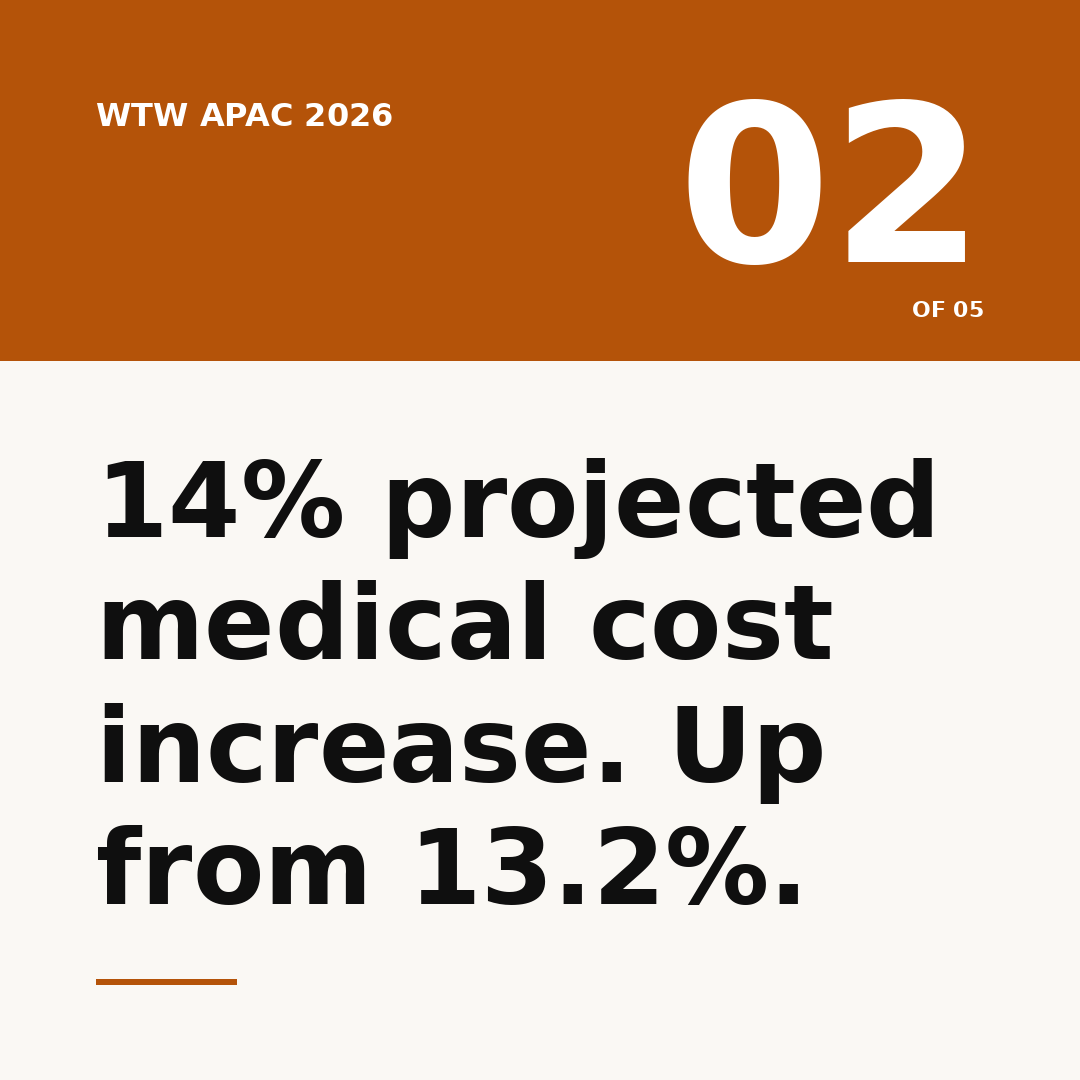
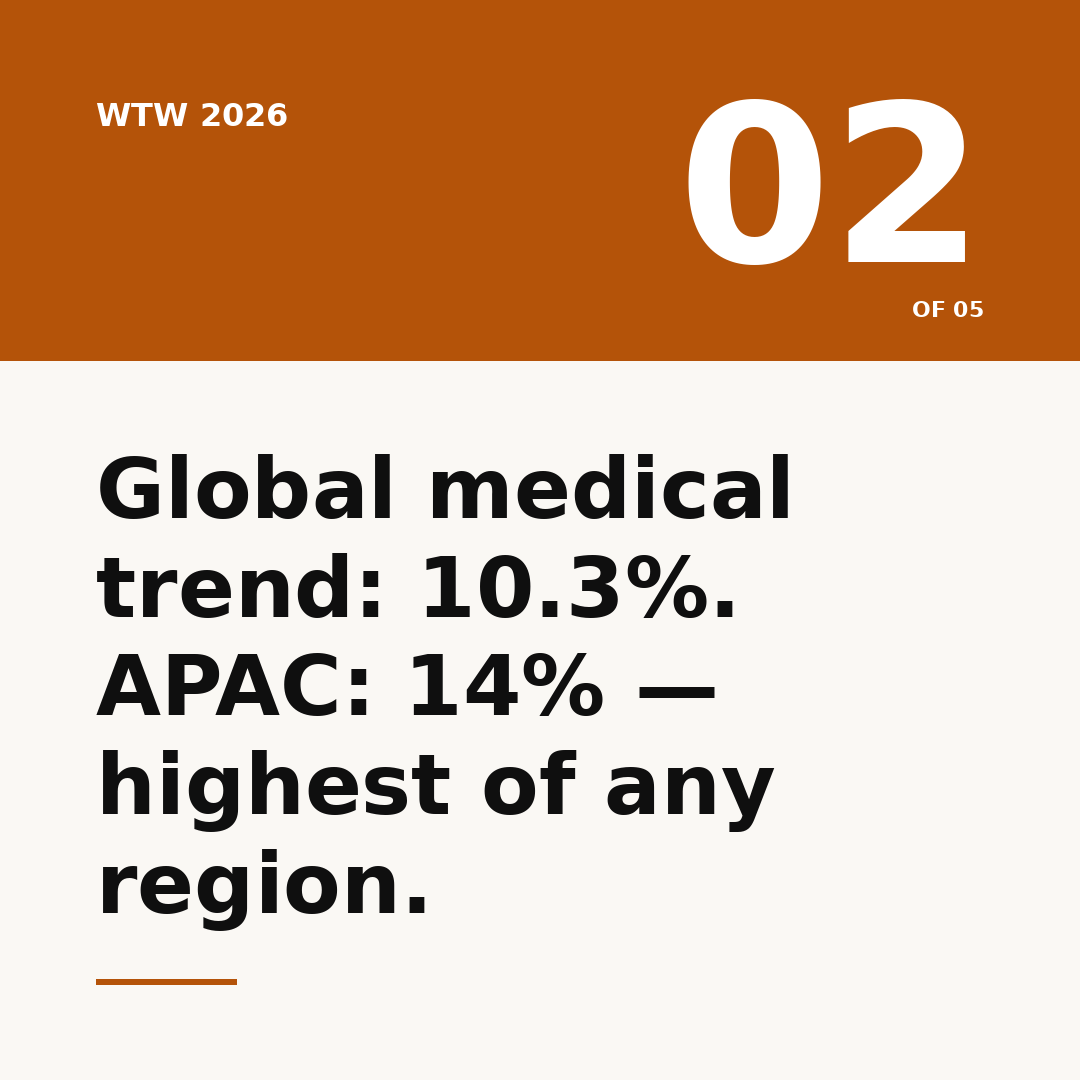
Recalibrate APAC lens to relevance filter, not framing mandate
Skill, sources catalog, and writer agent updated so APAC functions as
a topic-relevance filter rather than a framing requirement. Universal
best-practices voice is now the default; APAC data is woven into the
body as evidence when it materially differs from the global picture.
US-only or Europe-only themes that don't reach APAC employers get
filtered at the scout stage. Hashtags default to universal. Today's
three drafts rewritten in the new voice (retention expectation gap,
medical inflation, AI adoption vs work-design) and all carousels
regenerated to match.

Changed region(s): [[0.0917, 0.3972, 0.8861, 0.8861], [0.1833, 0.0917, 0.3667, 0.1222]]

diff --git a/posts/drafts/best-practices-2026-05-19.md b/posts/drafts/best-practices-2026-05-19.md
@@ -8,78 +8,78 @@ Previous runs preserved in git: morning provocative batch (`c2400ef`), midday re
 
 ---
 
-## Option 1 — apac-pay-expectation-gap
-- **Theme:** Job-mobility expectations and pay-gap pressure (APAC retention squeeze)
-- **Source reports:** WTW APAC Salary Budget Planning 2026; Robert Walters APAC Salary Survey 2026; Hays Asia Salary Guide 2026; HKIHRM 2026 industry surveys
-- **Source URLs:** https://www.wtwco.com/en-us/insights/2026/01/countering-disruptions-with-dynamic-total-rewards-strategies-actions-for-2026 · https://www.robertwalters.com.sg/insights/career-advice/salary-survey-2026.html
+## Option 1 — retention-is-the-expectation-gap
+- **Theme:** Job-mobility expectations and pay-gap pressure (APAC-applicable retention story)
+- **Source reports:** Robert Walters 2026 Salary Survey (APAC volumes); WTW 2026 Salary Budget Planning Survey; Hays Asia Salary Guide 2026
+- **Source URLs:** https://www.robertwalters.com.sg/insights/career-advice/salary-survey-2026.html · https://www.wtwco.com/en-us/insights/2026/01/countering-disruptions-with-dynamic-total-rewards-strategies-actions-for-2026
 - **Carousel (5 slides):** posts/drafts/carousels/2026-05-19-option-1/
-  - slide-1 · Compensation · APAC · "APAC's biggest comp story in 2026 is the expectation gap."
-  - slide-2 · WTW APAC 2026 · "Pay budgets land at 5.2%. India 9%. Singapore 4%. HK 3.5%."
-  - slide-3 · Robert Walters 2026 · "83% of APAC employees expect >10%. 27% of employers can offer it."
-  - slide-4 · The CHRO read · "Retention now turns on what you fund beyond cash."
+  - slide-1 · Compensation · "The 2026 retention squeeze isn't budget. It's the expectation gap."
+  - slide-2 · Robert Walters 2026 · "83% of employees expect pay rises above 10%. 27% of employers can offer it."
+  - slide-3 · WTW 2026 · "Salary budgets stable in single digits across most markets."
+  - slide-4 · The CHRO read · "The CHROs winning this year will fund retention beyond cash."
   - slide-5 · Your move · "What's in your non-cash retention stack?"
-- **Image alt:** Minimalist navy-accented card: "APAC's biggest comp story in 2026 is the expectation gap."
-- **Word count:** 49
+- **Image alt:** Minimalist navy-accented card: "The 2026 retention squeeze isn't budget. It's the expectation gap."
+- **Word count:** 48
 - **Status:** draft
 
 ---POST---
-APAC's biggest comp story in 2026 is the expectation gap.
+The 2026 retention squeeze isn't budget. It's the expectation gap.
 
-WTW APAC 2026: budgets at 5.2% — India 9%, Singapore 4%, HK 3.5%. Robert Walters: 83% of employees expect >10%; only 27% of employers can offer it.
+Robert Walters 2026: 83% of employees expect pay rises over 10%. Only 27% of employers can offer it. WTW 2026: budgets stay in single digits.
 
-Retention now turns on what you fund beyond cash.
+The CHROs winning this year will fund retention beyond cash.
 
-#APAC #Compensation #PeopleStrategy
+#Compensation #Retention #PeopleStrategy
 ---END---
 
 ---
 
-## Option 2 — apac-medical-trend
-- **Theme:** Medical inflation forcing benefits redesign (APAC highest-cost region globally)
-- **Source reports:** WTW APAC 2026 Global Medical Trends Survey; Mercer Marsh Benefits Asia 2026
+## Option 2 — medical-inflation-rewrites-benefits
+- **Theme:** Medical inflation forcing benefits redesign (universal trend with APAC as evidence)
+- **Source reports:** WTW 2026 Global Medical Trends Survey (global + APAC breakouts); Mercer Marsh Benefits Asia 2026
 - **Source URLs:** https://www.wtwco.com/en-in/insights/2025/10/2026-global-medical-trends-survey · https://www.mercer.com/insights/total-rewards/employee-benefits-strategy/health-on-demand-asia/
 - **Carousel (5 slides):** posts/drafts/carousels/2026-05-19-option-2/
-  - slide-1 · Benefits · APAC · "APAC's medical trend in 2026 is the highest in the world."
-  - slide-2 · WTW APAC 2026 · "14% projected medical cost increase. Up from 13.2%."
-  - slide-3 · The drivers · "Cancer drives 70% of cost. Cardiovascular 67%. Both rising."
-  - slide-4 · The CHRO read · "Benefits redesign isn't a CFO issue. It's a retention strategy."
+  - slide-1 · Benefits · "Medical inflation is rewriting benefits strategy."
+  - slide-2 · WTW 2026 · "Global medical trend: 10.3%. APAC: 14% — highest of any region."
+  - slide-3 · The drivers · "Cancer drives ~70% of cost. Cardiovascular ~67%. Both rising."
+  - slide-4 · The CHRO read · "The 2026 benefits conversation moved from 'what does it cost' to 'what does it retain.'"
   - slide-5 · Your move · "When did you last test benefits against employee needs?"
-- **Image alt:** Minimalist rust-accented card: "APAC's medical trend in 2026 is the highest in the world."
+- **Image alt:** Minimalist rust-accented card: "Medical inflation is rewriting benefits strategy."
 - **Word count:** 48
 - **Status:** draft
 
 ---POST---
-APAC's medical trend in 2026 is the highest in the world.
+Medical inflation is rewriting benefits strategy.
 
-WTW APAC 2026: 14% projected cost increase. Cancer drives 70%, cardiovascular 67%. Mercer Marsh Asia: 36% of employees say benefits don't meet their needs.
+WTW 2026: global medical trend at 10.3%, with APAC leading at 14% (highest of any region). Cancer drives ~70% of cost; cardiovascular ~67%.
 
-Benefits redesign isn't a CFO issue. It's a retention strategy.
+The 2026 benefits conversation has moved from "what does it cost" to "what does it retain."
 
-#APAC #BenefitsStrategy #PeopleStrategy
+#Benefits #Wellbeing #PeopleStrategy
 ---END---
 
 ---
 
-## Option 3 — apac-past-pilots-work-design-next
-- **Theme:** Human-AI work redesign as the central operating challenge (APAC leads adoption, lags design)
-- **Source reports:** McKinsey Asia "AI in Southeast Asia" 2026; Deloitte APAC Human Capital Trends 2026; BCG Japan AI adoption 2026; Korn Ferry Talent Trends 2026 APAC
+## Option 3 — adoption-is-racing-design-isnt
+- **Theme:** Human-AI work redesign (universal — AI adoption is global, design discipline is the differentiator)
+- **Source reports:** McKinsey "AI in Southeast Asia" 2026; Deloitte 2026 Global Human Capital Trends (APAC release); BCG AI / Workforce 2026; Korn Ferry Talent Trends 2026 APAC
 - **Source URLs:** https://www.mckinsey.com/featured-insights/asia-pacific/the-state-of-ai-in-southeast-asia · https://www.deloitte.com/global/en/issues/work/human-capital-trends-asia-pacific.html
 - **Carousel (5 slides):** posts/drafts/carousels/2026-05-19-option-3/
-  - slide-1 · Future of work · APAC · "APAC moved past AI pilots faster than the rest of the world."
-  - slide-2 · McKinsey Asia 2026 · "46% of SEA firms past piloting. 35% globally."
-  - slide-3 · Deloitte APAC 2026 · "Only 6% of APAC leaders confident in human-AI interaction design."
-  - slide-4 · The CHRO read · "The adoption race is over. The work-design race starts now."
+  - slide-1 · Future of work · "AI adoption is racing. Work design isn't."
+  - slide-2 · McKinsey 2026 · "46% of Southeast Asia firms past piloting. 35% globally."
+  - slide-3 · Deloitte 2026 · "Only 6% of leaders confident in human-AI interaction design."
+  - slide-4 · The CHRO read · "The race that decides 2027 ROI isn't deployment. It's redesign."
   - slide-5 · Your move · "Where does work design sit in your AI roadmap?"
-- **Image alt:** Minimalist moss-accented card: "APAC moved past AI pilots faster than the rest of the world."
-- **Word count:** 48
+- **Image alt:** Minimalist moss-accented card: "AI adoption is racing. Work design isn't."
+- **Word count:** 47
 - **Status:** draft
 
 ---POST---
-APAC moved past AI pilots faster than the rest of the world.
+AI adoption is racing. Work-design discipline isn't keeping up.
 
-McKinsey 2026: 46% of Southeast Asia firms past piloting vs. 35% globally. Deloitte APAC: only 6% of leaders confident in human-AI interaction design.
+McKinsey 2026: 46% of Southeast Asia firms past piloting vs. 35% globally — and only 6% of APAC leaders are confident in human-AI interaction design.
 
-The adoption race is over. The work-design race starts now.
+The race that decides 2027 ROI isn't deployment. It's redesign.
 
-#APAC #FutureOfWorkAsia #AIatWork
+#FutureOfWork #AIatWork #PeopleStrategy
 ---END---

diff --git a/.claude/skills/linkedin-post/SKILL.md b/.claude/skills/linkedin-post/SKILL.md
@@ -35,8 +35,8 @@ Invoke the `hr-best-practices-scout` agent with a prompt that includes:
 - A 2026-only window directive.
 - The full source catalog content (Tier 1 + Tier 2 + Tier 3 + Auto-discovered).
 - The user's `theme:` override and any `+sources` / `-sources` adjustments.
-- **The regional lens directive (default `apac`):**
-  - "Apply the regional lens from `.claude/skills/linkedin-post/sources.md`. With `region: apac`, prioritize APAC regional breakouts of Tier 1/2 reports (e.g. Mercer Asia Talent Trends, McKinsey Asia, BCG Southeast Asia), sweep Tier 3 sources (Hays, Robert Walters, Michael Page, INSEAD, ILO Asia-Pacific, ADB, Singapore MOM, AHRI, HKIHRM, People Matters, HR Asia), and prefer APAC stats over global averages when both exist. Run queries like `'Mercer Asia Talent Trends 2026 findings'`, `'Hays Asia Salary Guide 2026'`, `'Robert Walters APAC Salary Survey 2026'`, `'Michael Page Talent Trends 2026 Singapore'`, `'INSEAD GTCI 2026'`, `'ILO Asia-Pacific Employment 2026'`. Surface APAC regulatory/market context where it adds dimension."
+- **The regional lens directive (default `apac` = relevance filter, not framing mandate):**
+  - "With `region: apac` (default), apply APAC as a **relevance filter on themes**, not a framing mandate. **Topic filter:** only surface themes applicable to APAC employers. Drop themes that are US-only or Europe-only and don't reach APAC (e.g. US-specific NLRB rulings, US state-level labor law). Themes that touch APAC multinationals via global rules pass (e.g. EU Pay Transparency landing on European subsidiaries of APAC firms). **Sources:** still sweep Tier 3 (Hays, Robert Walters, Michael Page, INSEAD, ILO Asia-Pacific, ADB, Singapore MOM, AHRI, HKIHRM, People Matters, HR Asia) and pull APAC breakouts of Tier 1/2 when they add value. **Data:** cite APAC stats as evidence when they materially differ from the global picture; otherwise universal stats are fine. **Don't write briefs that frame every theme as 'APAC's biggest…' — the goal is general best practices that happen to be relevant to APAC.**"
   - "With `region: global`, treat Tier 3 as supplementary and prioritize globally-applicable findings."
 - **The discovery directive (when `discover` is not `off`):** "During your searches, if you encounter 2026 HR research from a credible firm NOT in the catalog that adds new convergence to a theme you're surfacing, USE it and report it back so it can be added to the catalog. In APAC mode, weight discovery toward APAC-credible firms (e.g. Korn Ferry APAC, IBM IBV APAC, Egon Zehnder APAC, regional NUS / HKUST research centers). Apply the discovery rules in `.claude/skills/linkedin-post/sources.md`."
 - Reminder of environment limits: if WebFetch returns 403, fall back to search-indexed content and mark claims `[search-only]`.
@@ -93,10 +93,10 @@ Voice rules:
 - 3-4 hashtags max.
 
 **APAC framing (when `region: apac`):**
-- Anchor at least one of the three options in an APAC-specific market reality where the brief supports it: Singapore/Hong Kong as regional hubs, ASEAN talent flows, India scaling, Japan/Korea workstyle reforms, Australia Fair Work, China labor law, or how global rules (EU Pay Transparency, US enforcement) reach APAC multinationals.
-- Cite APAC stats when both APAC and global versions of a number exist (e.g. APAC thriving rate over the global one).
-- Use APAC-leaning hashtags when relevant: `#APAC`, `#FutureOfWorkAsia`, `#ASEAN`, `#SingaporeHR`, `#AsiaCHRO` — alongside the global ones, not replacing them.
-- Avoid parochialism — posts should still read for a global LinkedIn feed; APAC context adds dimension, doesn't wall the audience off.
+- **Universal best-practices framing is the default.** Don't open posts with "APAC's biggest..." or "APAC moved past..." style leads. Write as a senior CHRO sharing a general insight that happens to land in APAC.
+- **Weave APAC data into the body as evidence**, not as the headline. Example: instead of "APAC's medical trend is the highest in the world," write "Medical inflation is rewriting benefits strategy. WTW 2026: global 10.3%, with APAC leading at 14%."
+- **Filter, don't force.** If a topic doesn't apply to APAC employers (e.g. US-only NLRB rulings, US state labor law), don't draft a post on it. If a topic applies universally, treat it universally and only invoke APAC where the data adds material dimension.
+- **Hashtags default to universal.** `#APAC`, `#FutureOfWorkAsia`, `#ASEAN`, `#SingaporeHR`, `#AsiaCHRO` are optional — use only when the post specifically targets APAC employers (e.g. regional regulatory deadlines).
 
 **≤50 words per post body, including hashtags.** Hard cap. Verify each option's
 word count by running:

diff --git a/.claude/skills/linkedin-post/sources.md b/.claude/skills/linkedin-post/sources.md
@@ -59,19 +59,20 @@ in Asia Pacific. Particularly weighted when the skill runs with
 
 ## Regional lens directive
 
-When the skill runs with **`region: apac` (default)**, prioritize:
+When the skill runs with **`region: apac` (default)**, APAC functions as a
+**relevance filter on themes**, not a framing mandate:
 
-1. **APAC regional breakouts** within Tier 1/2 reports (e.g. "Mercer Asia Talent Trends 2026", "McKinsey Asia 2026", "BCG Southeast Asia").
-2. **Tier 3 sources** above as primary research targets.
-3. **APAC-specific stats** over global averages when both exist (e.g. cite Mercer's APAC thriving number over the global one).
-4. **APAC regulatory and market context** in the writer's framing — Singapore/Hong Kong as hubs, ASEAN talent flows, India scaling, Japan/Korea workstyle reforms, Australia Fair Work, EU Pay Transparency *as it lands on APAC multinationals*.
+1. **Topic filter:** only surface themes applicable to APAC employers. Drop themes that are US-only or Europe-only and don't reach APAC (e.g. US-specific NLRB rulings, US state-level labor law). Themes that touch APAC multinationals via global rules (EU Pay Transparency, etc.) pass.
+2. **Source sweep:** sweep Tier 3 for primary APAC research; pull APAC regional breakouts of Tier 1/2 reports when they add value.
+3. **Data weaving:** cite APAC-specific stats as evidence when they materially differ from the global picture. When the global stat is enough, use it. Don't force APAC numbers where they don't add insight.
+4. **Framing:** universal best-practices voice is the default. Don't lead posts with "APAC's biggest…" or "APAC moved past…" — write general CHRO insight and use APAC data inside the body where it lands naturally.
 
 When the skill runs with **`region: global`**, treat Tier 3 as supplementary
 — use it only when APAC data adds genuine convergence to a theme.
 
 US-centric Tier 2 sources (SHRM, Conference Board) are de-emphasized but
 not excluded in `region: apac`; cite them when they speak to issues APAC
-employers also face (e.g. cross-border talent flows, multinational HR
+employers also face (cross-border talent flows, multinational HR
 governance).
 
 ---

diff --git a/.claude/agents/hr-best-practices-writer.md b/.claude/agents/hr-best-practices-writer.md
@@ -25,7 +25,7 @@ minimalist, and tight — like a CHRO making one clean point on a slide.
 - No corporate jargon. No emojis. No hype words.
 - 3-4 hashtags max, at the end. Lowercase or CamelCase, e.g. `#PeopleStrategy #FutureOfWork #SkillsFirst`.
 - No AI-tells: avoid "in today's fast-paced world," "delve," "tapestry," "navigating the landscape," "moreover," "furthermore," "in conclusion."
-- **Regional framing:** if the calling brief includes an Asia Pacific anchor (look for APAC-tagged stats, APAC regional reports, or an explicit `region: apac` directive in the orchestrator's prompt), anchor at least one option in APAC market reality (Singapore/HK hubs, ASEAN talent flows, India scaling, Japan/Korea reforms, Australia Fair Work, China labor law, or how global rules land on APAC multinationals). Prefer APAC-specific stats over global averages when both exist. Add APAC-leaning hashtags (`#APAC`, `#FutureOfWorkAsia`, `#ASEAN`, `#SingaporeHR`, `#AsiaCHRO`) alongside the global ones. Don't wall the post off — keep it readable for a global feed.
+- **Regional applicability (APAC default for /linkedin-post):** if the calling brief is APAC-focused, treat APAC as a relevance filter, not a framing mandate. Draft on universal HR best practices that apply to APAC employers. Weave APAC-specific data into the body as evidence when it materially differs from the global picture (e.g. "WTW 2026: global 10.3%, APAC 14%") — but don't lead posts with "APAC's biggest…" or similar headlines. Skip topics that are US-only or Europe-only and don't reach APAC (e.g. US-specific NLRB rulings, US state labor law). Hashtags default to universal — use APAC-leaning ones only when the post specifically targets APAC employers.
 
 ## Structure each 50-word post should hit
 
